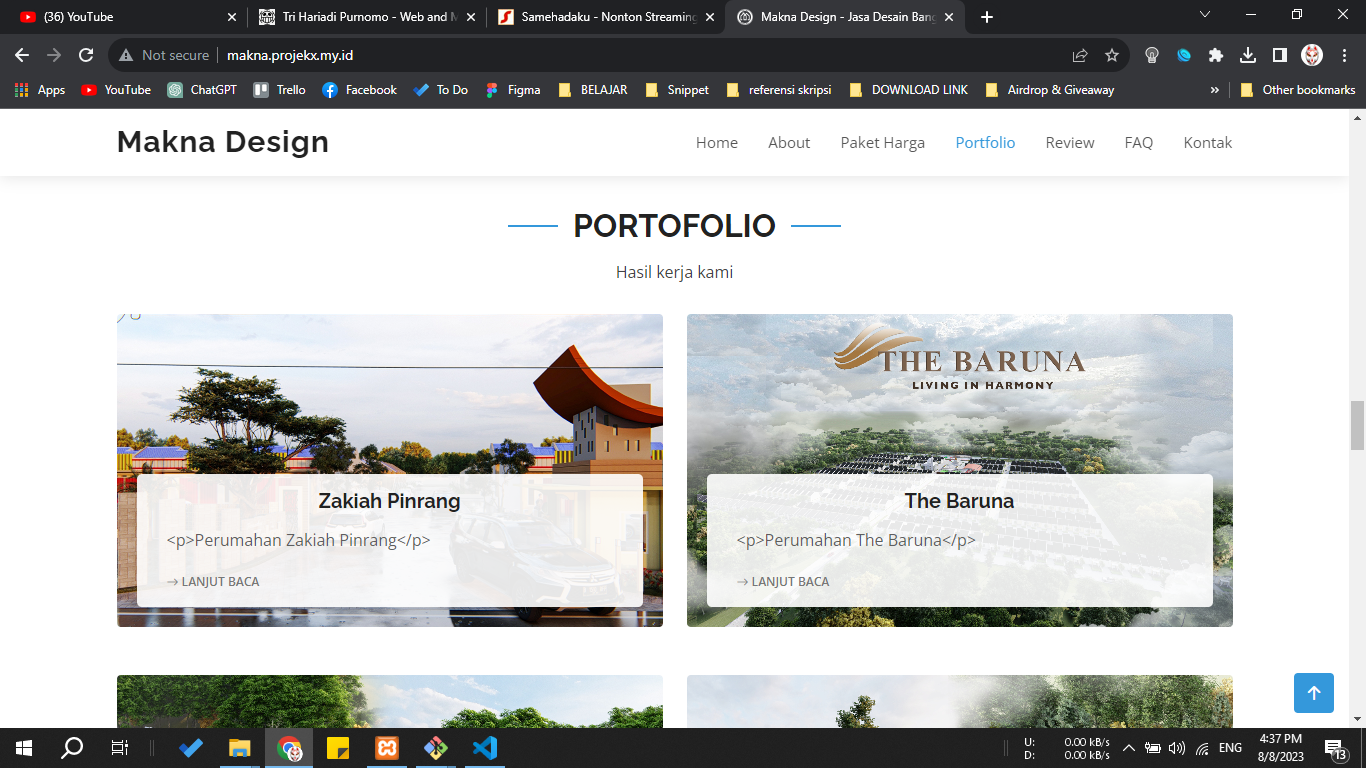
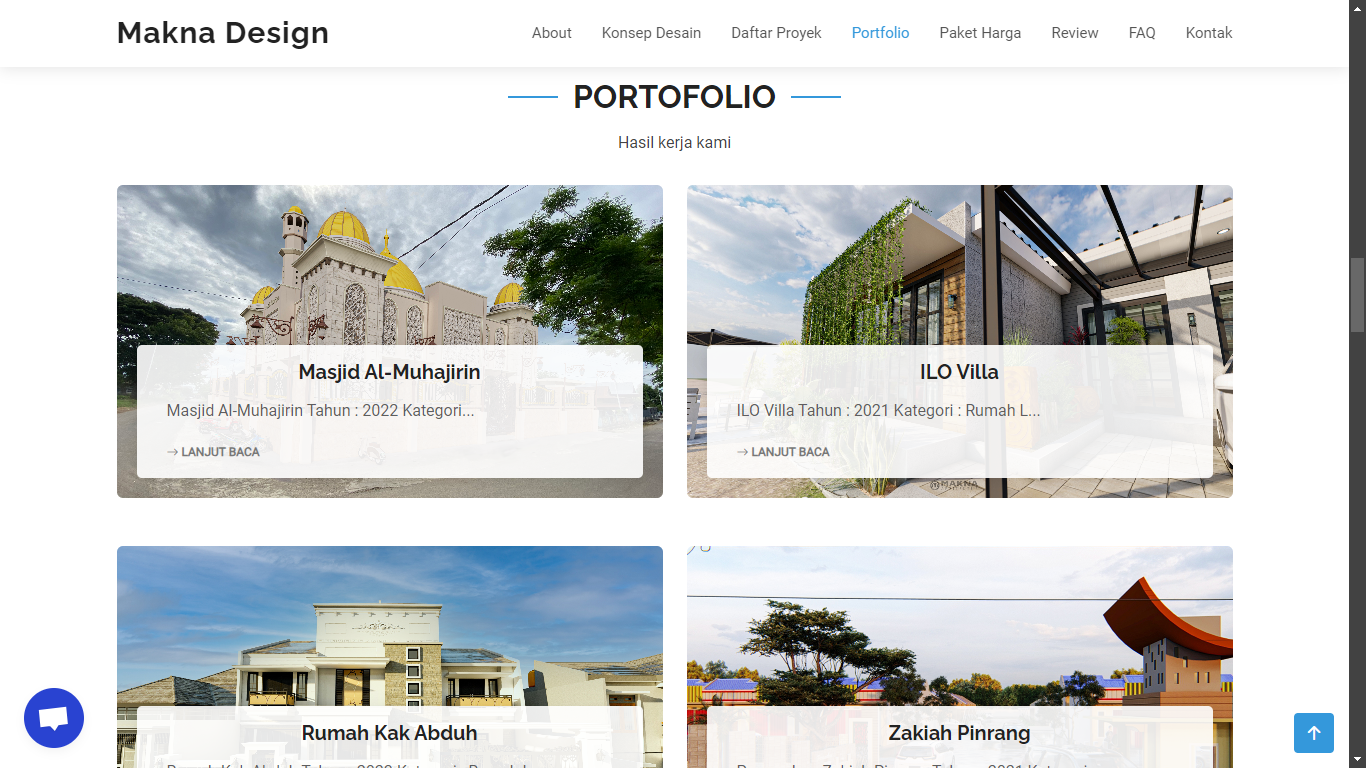
new portfolio

diff --git a/src/components/Portfolio.jsx b/src/components/Portfolio.jsx
@@ -1,129 +1,163 @@
-import React, { useState, useEffect } from 'react';
-import aksaraP from '../assets/portfolio/aksaraportfolio.jpg';
-import asistenP from '../assets/portfolio/asistenportfolio.jpg';
-import lagunusatara from '../assets/portfolio/laguportfolio.jpg';
-import laravelmovies from '../assets/portfolio/laravelmovies.PNG';
-import arsitek from '../assets/portfolio/makna-design.png';
+import React, { useState, useEffect } from "react";
+import aksaraP from "../assets/portfolio/aksaraportfolio.jpg";
+import asistenP from "../assets/portfolio/asistenportfolio.jpg";
+import lagunusatara from "../assets/portfolio/laguportfolio.jpg";
+import laravelmovies from "../assets/portfolio/laravelmovies.PNG";
+import arsitek from "../assets/portfolio/makna-design.png";
+import medical from "../assets/portfolio/medical.png";
 import LinkIcon from "../assets/link.png";
-import { Slide } from 'react-slideshow-image';
-import 'react-slideshow-image/dist/styles.css';
+import { Slide } from "react-slideshow-image";
+import "react-slideshow-image/dist/styles.css";
 import "./Portfolio.css";
 import "animate.css/animate.min.css";
-import { AnimationOnScroll } from 'react-animation-on-scroll';
-
-
+import { AnimationOnScroll } from "react-animation-on-scroll";
 
 const Portfolio = () => {
-    const [portfol, setPortfol] = useState(2);
-    //choose the screen size 
-    const handleResize = () => {
-        if (window.innerWidth < 700) {
-            setPortfol(1)
-
-        } else if (window.innerWidth < 992) {
-            setPortfol(2)
-        } else {
-            setPortfol(3)
-        }
+  const [portfol, setPortfol] = useState(2);
+  const [currentSlide, setCurrentSlide] = useState(0);
+  //choose the screen size
+  const handleResize = () => {
+    if (window.innerWidth < 700) {
+      setPortfol(1);
+    } else if (window.innerWidth < 992) {
+      setPortfol(2);
+    } else {
+      setPortfol(3);
     }
+  };
 
-    // create an event listener
-    useEffect(() => {
-        window.addEventListener("resize", handleResize);
-        handleResize();
+  // create an event listener
+  useEffect(() => {
+    window.addEventListener("resize", handleResize);
+    handleResize();
+  });
+  // const indicators = (index) => (<div className="indicator">{index + 1}</div>);
 
-    })
-    const indicators = (index) => (<div className="indicator">{index + 1}</div>);
-
-    const portfolios = [
-        {
-            id: 0,
-            src: laravelmovies,
-            appname: "Laravel Movies Website",
-            link: "https://github.com/try333/laravel-movies",
-            stack: ["Laravel", "TailwindCSS"],
-        },
-        {
-            id: 1,
-            src: asistenP,
-            appname: "Virtual Assistant with Speech Recognition",
-            link: "https://www.upload-apk.com/en/S4KCcCxxy4nFtFE",
-            stack: ["React Native", "JavaScript", "Realm"],
-        },
-        {
-            id: 2,
-            src: aksaraP,
-            appname: "Indonesian Traditional Language Learning App",
-            link: "https://github.com/try333",
-            stack: ["React Native", "JavaScript", "Realm"],
-        },
-        {
-            id: 3,
-            src: lagunusatara,
-            appname: "Indonesian national anthem songs search app with speech recognition",
-            link: "https://github.com/try333",
-            stack: ["React Native", "JavaScript", "Realm"],
-        },
-        {
-            id: 4,
-            src: arsitek,
-            appname: "Architect Website Landing Page",
-            link: "http://makna.projekx.my.id",
-            stack: ["Laravel", "Bootstrap 5", "MySQL"],
-        },
-
-
-    ]
-
+  const CustomIndicator = ({ index }) => {
     return (
-        <div name="portfolio" className="bg-gradient-to-b from-black to-gray-800 w-full text-white md:pb-10">
-            <AnimationOnScroll animateIn="animate__fadeInRight" animateOnce={true}>
-                <div className="max-w-screen-lg p-4 mx-auto flex flex-col justify-center w-full h-full">
-                    <div className="pb-8">
-                        <p className="text-4xl font-bold inline border-b-4 border-gray-500">
-                            Portfolio
-                        </p>
-                        <p className="py-6">Check out some of my work right here</p>
-                    </div>
+      <div
+        className={`h-2 w-2 rounded-full mx-1 ${
+          index === currentSlide ? 'bg-white' : 'bg-gray-400'
+        }`}
+      ></div>
+    );
+  };
 
-                    <div className="grid grid-cols-1 sm:grid-cols-1 md:grid-cols-1 gap-8">
-                        <div className="w-full">
-                            <div className="slide-container w-full">
+  const portfolios = [
+    {
+      id: 0,
+      src: laravelmovies,
+      appname: "Laravel Movies Website",
+      link: "https://github.com/try333/laravel-movies",
+      stack: ["Laravel", "TailwindCSS"],
+    },
+    {
+      id: 1,
+      src: asistenP,
+      appname: "Virtual Assistant with Speech Recognition",
+      link: "https://www.upload-apk.com/en/S4KCcCxxy4nFtFE",
+      stack: ["React Native", "JavaScript", "Realm"],
+    },
+    {
+      id: 2,
+      src: aksaraP,
+      appname: "Indonesian Traditional Language Learning App",
+      link: "https://github.com/try333",
+      stack: ["React Native", "JavaScript", "Realm"],
+    },
+    {
+      id: 3,
+      src: lagunusatara,
+      appname:
+        "Indonesian national anthem songs search app with speech recognition",
+      link: "https://github.com/try333",
+      stack: ["React Native", "JavaScript", "Realm"],
+    },
+    {
+      id: 4,
+      src: arsitek,
+      appname: "Architect Website Landing Page",
+      link: "http://makna.projekx.my.id",
+      stack: ["Laravel", "Bootstrap 5", "MySQL"],
+    },
+    {
+      id: 5,
+      src: medical,
+      appname: "Medical Checkup Appointment Web App",
+      link: "http://medical-checkup.vercel.app",
+      stack: ["Next.js", "Tailwind", "AppWrite DB"],
+    },
+  ];
 
-                                <Slide slidesToShow={portfol} indicators={indicators} transitionDuration={200} canSwipe={true}>
-                                    {portfolios.map(porto => (
-                                        <div className="each-slide w-full md:px-3" key={porto.id}>
-                                            <div className="shadow-md shadow-gray-600 rounded-lg">
+  return (
+    <div
+      name="portfolio"
+      className="bg-gradient-to-b from-black to-gray-800 w-full text-white md:pb-10"
+    >
+      <AnimationOnScroll animateIn="animate__fadeInRight" animateOnce={true}>
+        <div className="max-w-screen-lg p-4 mx-auto flex flex-col justify-center w-full h-full">
+          <div className="pb-8">
+            <p className="text-4xl font-bold inline border-b-4 border-gray-500">
+              Portfolio
+            </p>
+            <p className="py-6">Check out some of my work right here</p>
+          </div>
 
-                                                <img src={porto.src} alt="" className="rounded-md duration-200 hover:scale-105 w-full" />
-                                                <div className="flex items-center justify-center text-center bottom-0">
-                                                    {/* <a href={link} target="_blank" className='text-center'> */}
-                                                    <span className="px-6 py-3 duration-200 hover:scale-105">{porto.appname}</span>
+          <div className="grid grid-cols-1 sm:grid-cols-1 md:grid-cols-1 gap-8">
+            <div className="w-full">
+              <div className="slide-container w-full">
+                <Slide
+                  slidesToShow={portfol}
+                  indicators={(index) => (
+                    <CustomIndicator index={index} />
+                  )}
+                  transitionDuration={200}
+                  canSwipe={true}
+                  onChange={(oldIndex, newIndex) => setCurrentSlide(newIndex)}
+                  duration={5000}
+                >
+                  {portfolios.map((porto) => (
+                    <div className="each-slide w-full md:px-3" key={porto.id}>
+                      <div className="shadow-md shadow-gray-600 rounded-lg">
+                        <img
+                          src={porto.src}
+                          alt=""
+                          className="rounded-md duration-200 hover:scale-105 w-full"
+                        />
+                        <div className="flex items-center justify-center text-center bottom-0">
+                          {/* <a href={link} target="_blank" className='text-center'> */}
+                          <span className="px-6 py-3 duration-200 hover:scale-105">
+                            {porto.appname}
+                          </span>
 
-                                                    {/* </a> */}
-                                                </div>
-                                                <div className='flex justify-center mb-4'>
-                                                    <a href={porto.link} target="_blank">
-                                                        <img src={LinkIcon} alt="" className="w-8 h-8" />
-                                                    </a>
-
-                                                </div>
-
-                                                <div className='flex justify-center pb-4'>
-                                                    {porto.stack.map(stack => <p><span class="bg-blue-100 text-blue-800 text-sm font-medium px-2.5 py-0.5 mx-1 rounded dark:bg-blue-900 dark:text-blue-300">{stack}</span></p>)}
-                                                </div>
-
-                                            </div>
-                                        </div>
-                                    ))}
-                                </Slide>
-                            </div>
+                          {/* </a> */}
                         </div>
+                        <div className="flex justify-center mb-4">
+                          <a href={porto.link} target="_blank">
+                            <img src={LinkIcon} alt="" className="w-8 h-8" />
+                          </a>
+                        </div>
+
+                        <div className="flex justify-center pb-4">
+                          {porto.stack.map((stack) => (
+                            <p>
+                              <span class="bg-blue-100 text-blue-800 text-sm font-medium px-2.5 py-0.5 mx-1 rounded dark:bg-blue-900 dark:text-blue-300">
+                                {stack}
+                              </span>
+                            </p>
+                          ))}
+                        </div>
+                      </div>
                     </div>
-                </div>
-            </AnimationOnScroll>
+                  ))}
+                </Slide>
+              </div>
+            </div>
+          </div>
         </div>
-    )
+      </AnimationOnScroll>
+    </div>
+  );
 };
 
 export default Portfolio;

diff --git a/src/index.css b/src/index.css
@@ -13,3 +13,13 @@
     font-family: 'Raleway', sans-serif;
   }
 }
+
+@layer components {
+  .custom-indicator {
+    @apply bg-white; /* Pastikan @apply digunakan dengan utilitas yang valid */
+  }
+
+  .custom-indicator-active {
+    @apply bg-white; /* Gunakan hanya dalam konteks komponen atau base layer */
+  }
+}
